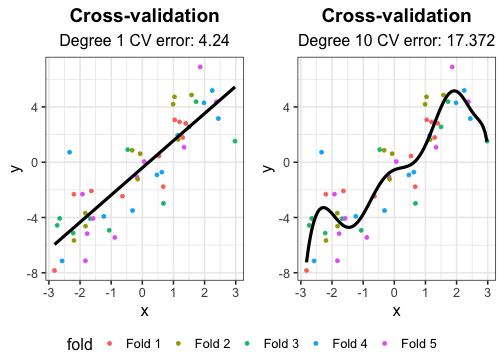
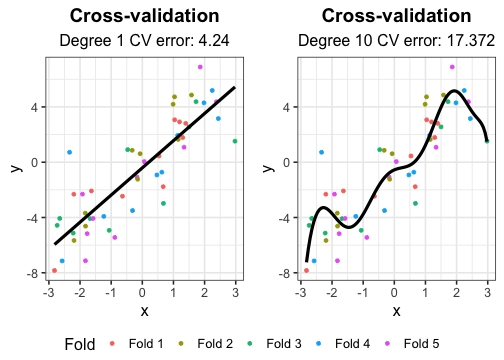
Typo LS8

Changed region(s): [[0.625, 0.9167, 0.8929, 0.9778], [0.3571, 0.9167, 0.5952, 0.9778], [0.119, 0.9167, 0.3274, 0.9778]]

diff --git a/docs/LectureSlides/lectureslides8/lectureslides8.html b/docs/LectureSlides/lectureslides8/lectureslides8.html
@@ -630,10 +630,7 @@ ggarrange(g_cv1, g_cv10, common.legend = TRUE, legend = "bottom")
 ```
 ---
 
-
-```
-## Error in FUN(X[[i]], ...): object 'fold' not found
-```
+&lt;img src="lectureslides8_files/figure-html/unnamed-chunk-18-1.png" style="display: block; margin: auto;" /&gt;
 
 ---
 layout: false
